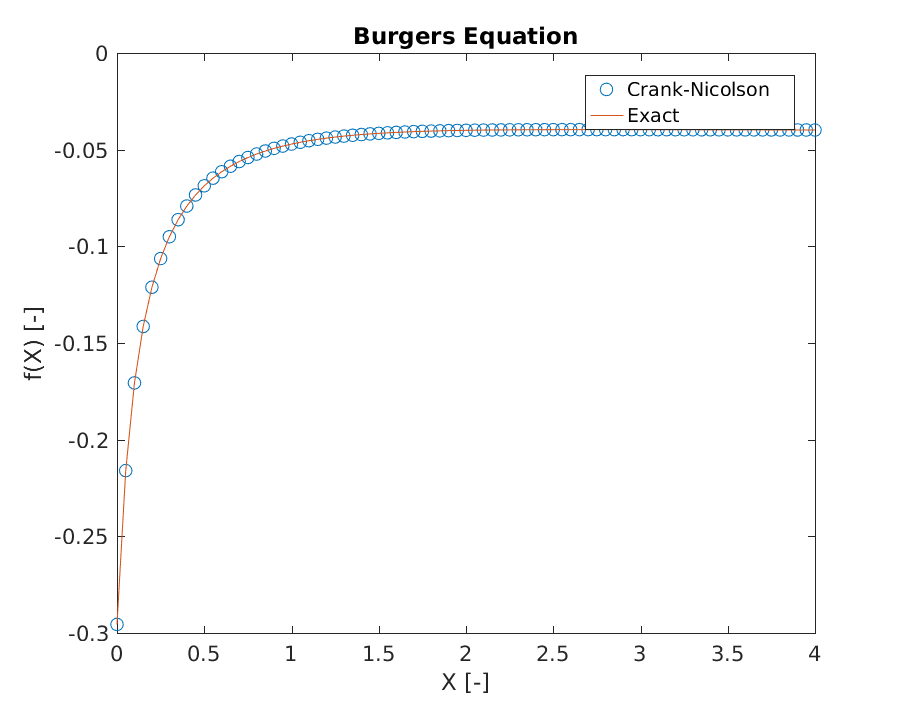
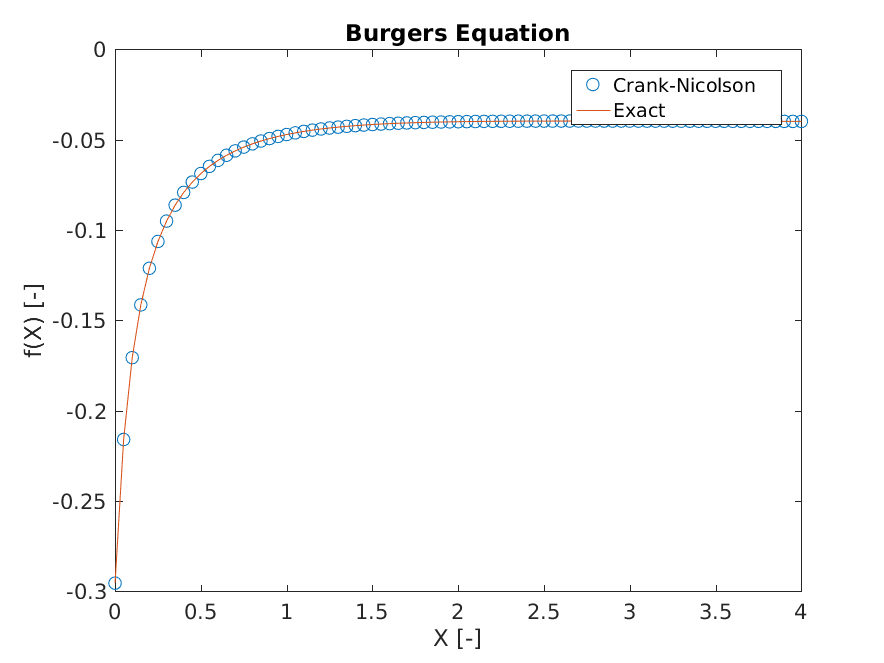
halfway through

diff --git a/HW11/problem1_CN.m b/HW11/problem1_CN.m
@@ -1,10 +1,10 @@
 %% Alex Swenson ME573 HW10, Problem 1
-function problem1_FTCS()
+function problem1_CN()
 clear; clc;
-
+global alphax alphay
 %% Problem Parameters
 
-dx = 0.1; dy=dx;
+dx = 0.5; dy=dx;
 dt=0.001;
 x = -1:dx:1;
 y = 0:dy:2;
@@ -37,19 +37,29 @@ fv(1,:) = v_exact(1,:); fv(ny,:) = v_exact(ny,:);
 fu_ = fu;
 fu_save = fu;
 
-fv_ = fv;
+fv_ = fv;    
 fv_save = fv;
+
+Ax = update_Ax(fu, nx, dt, dx, 1);
+Ay = update_Ax(fu, ny, dt, dy, 1);
+
 
 for t=0:dt:15
         Co_x = fu * dt / (dx^2);
         Co_y = fu * dt / (dy^2);
         for j=2:nx-1
+            % FTCS
             % calculate u direction
             fu_(2:ny-1,j) = fu(2:ny-1,j)-(Co_x(2:ny-1,j)./2).*(fu(3:ny,j)-fu(1:ny-2,j))+...
                 alphax*(fu(3:ny,j) - 2*fu(2:ny-1,j) + fu(1:ny-2,j));
             % calculate v direction
             fv_(2:ny-1,j) = fv(2:ny-1,j)-(Co_x(2:ny-1,j)./2).*(fv(3:ny,j)-fv(1:ny-2,j))+...
                 alphax*(fv(3:ny,j) - 2*fv(2:ny-1,j) + fv(1:ny-2,j));
+            % Crank Nicholson
+            % calculate u direction
+            Aux = update_Ax(fu_, nx, dt, dx, j);
+            % calculate v direction
+            Avx = update_Ax(fv_, nx, dt, dx, j);
         end
         for i=2:ny-1
             % calculate u direction
@@ -58,14 +68,20 @@ for t=0:dt:15
             % calculate v direction
             fv_save(i,2:nx-1) = fv_(i,2:nx-1)-(Co_y(i,2:nx-1)./2).*(fv_(i,3:nx)-fv_(i,1:nx-2))+...
                 alphay*(fv_(i,3:nx) - 2*fv_(i,2:nx-1) + fv_(i,1:nx-2));
+            % Crank Nicolson
+            % calculate u direction
+            Auy = update_Ay(fu_, ny, dt, dy, i);
+            % calculate v direction
+            Avy = update_Ay(fv_, ny, dt, dy, i);
         end
     fu = fu_save;
     fv = fv_save;
 end
-figure(1)
-surf(X,Y,abs(fu-u_exact));
-figure(2)
-surf(X,Y,abs(fv-v_exact));
+
+% figure(1)
+% surf(X,Y,abs(fu-u_exact));
+% figure(2)
+% surf(X,Y,abs(fv-v_exact));
 
 
 
@@ -87,3 +103,32 @@ function [u,v] = get_exact(X, Y, k, nu)
     u = u_num ./ denom;
     v = v_num ./ denom;
 end
+
+function A = update_Ax(f, N, dt, dx, j)
+    global alphax
+    f = f(:,j)';
+    e = ones(N-1, 1);
+    % set ghost point to make matrix
+    f(N+1) = 1;
+    A = spdiags([-((f(3:N+1)'*dt/dx) +2*alphax).*e, 4*(1+alphax)*e, (f(1:N-1)'*(dt/dx) - 2*alphax).*e], -1:1, N-2, N-2);
+end
+
+function A = update_Ay(f, N, dt, dx, j)
+    global alphay
+    f = f(j,:);
+    e = ones(N-1, 1);
+    % set ghost point to make matrix
+    f(N+1) = 1;
+    A = spdiags([-((f(3:N+1)'*dt/dx) +2*alphay).*e, 4*(1+alphay)*e, (f(1:N-1)'*(dt/dx) - 2*alphay).*e], -1:1, N-2, N-2);
+end
+
+function b = update_b(f, c, N, alpha, bc1, bc2)
+    % update the RHS vector, include initial boundary conditions for 
+    % first and last nodes.
+    b = (c+2*alpha)*f(1:N-2) + 4*(1-alpha)*f(2:N-1) - (c-2*alpha)*f(3:N);
+    b(1) = b(1) + (c+2*alpha)*bc1;
+    b(N-2) = b(N-2) - (c-2*alpha)*bc2;
+end
+
+
+
